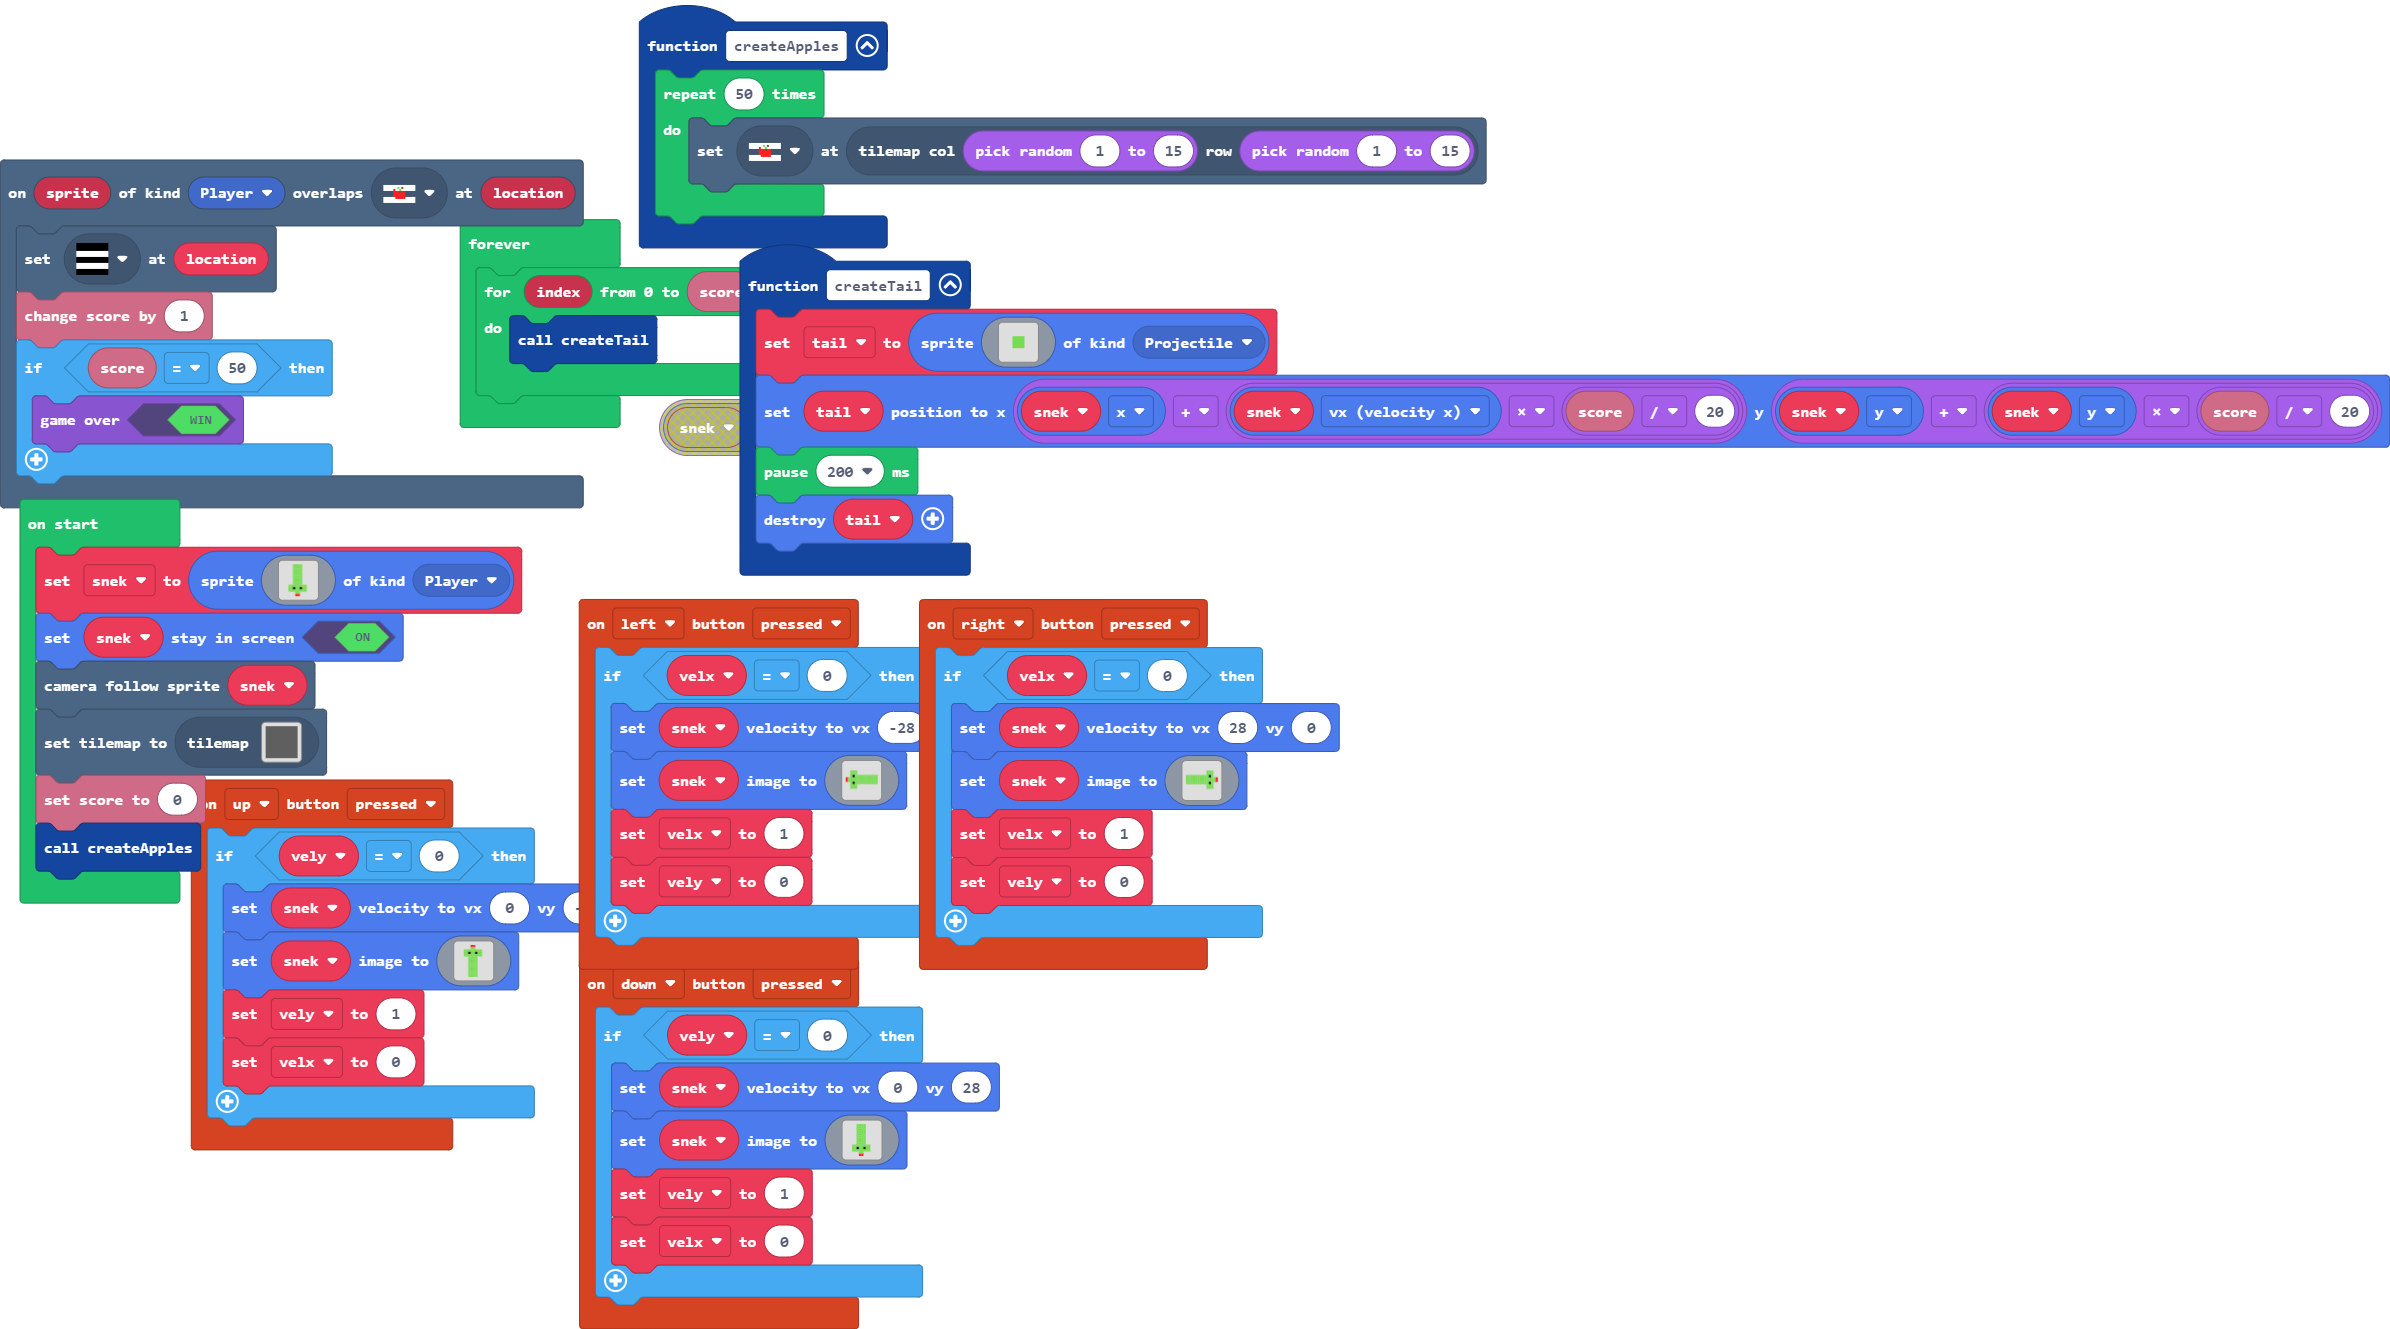
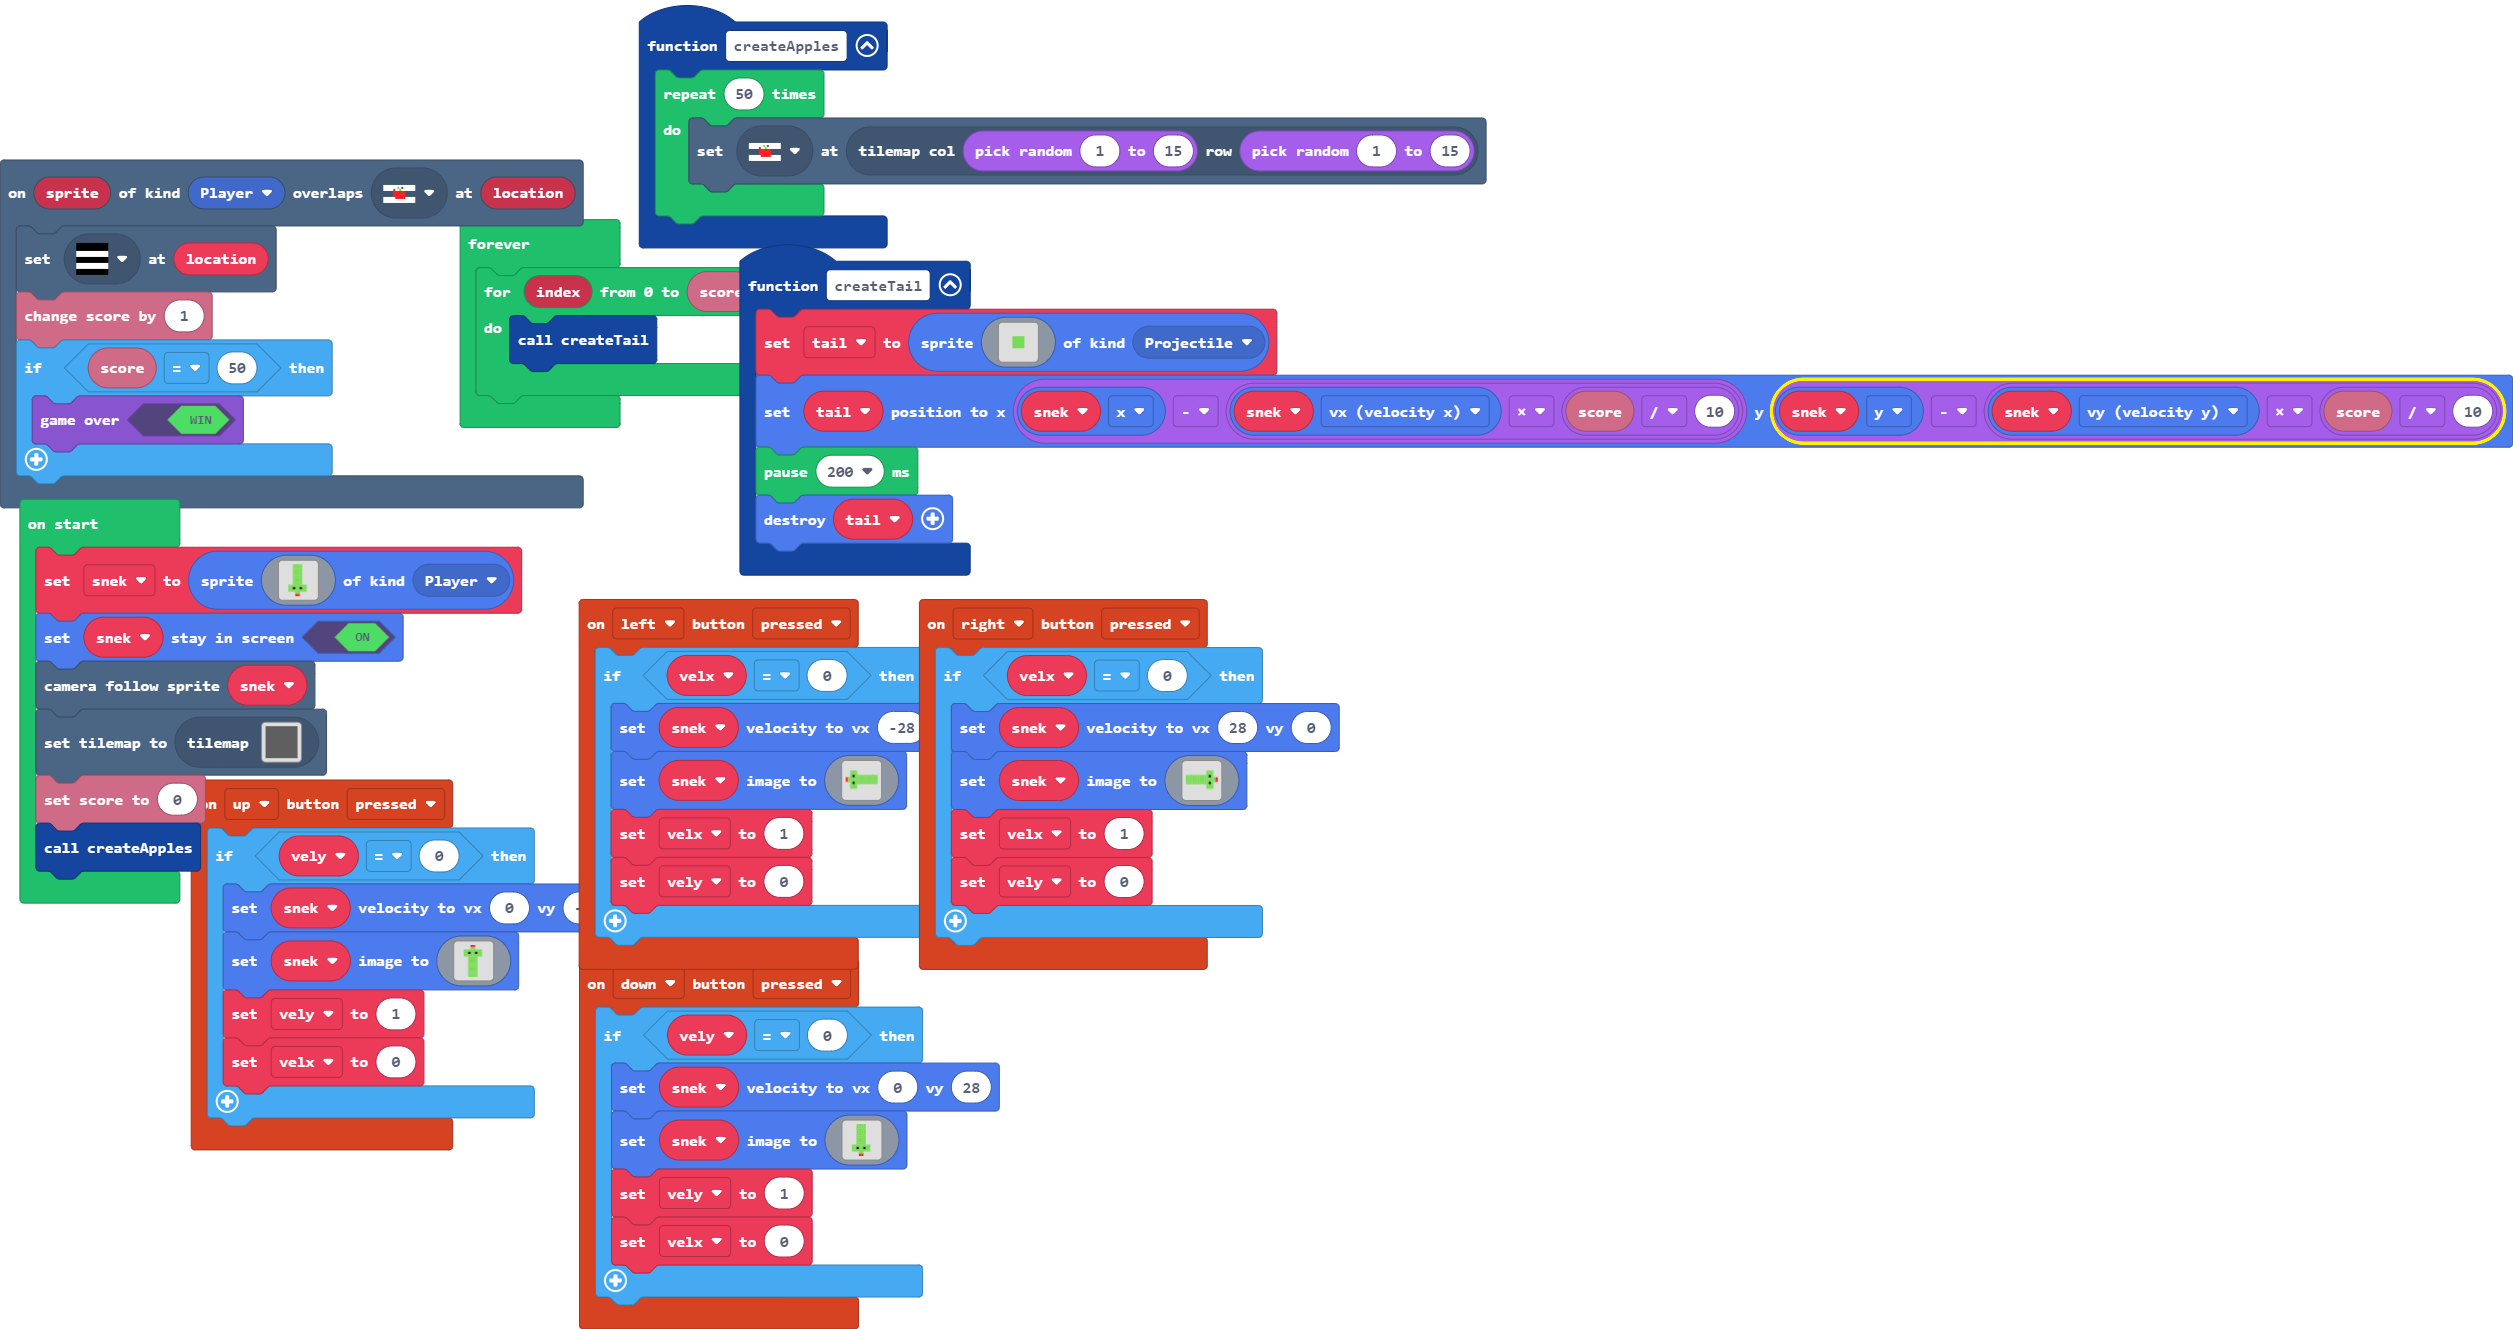
Update main.blocks, main.ts

diff --git a/main.ts b/main.ts
@@ -24,7 +24,7 @@ function createTail () {
         . . . . . . . . . . . . . . . . 
         . . . . . . . . . . . . . . . . 
         `, SpriteKind.Projectile)
-    tail.setPosition(snek.x + snek.vx * (info.score() / 20), snek.y + snek.y * (info.score() / 20))
+    tail.setPosition(snek.x - snek.vx * (info.score() / 10), snek.y - snek.vy * (info.score() / 10))
     pause(200)
     sprites.destroy(tail)
 }
